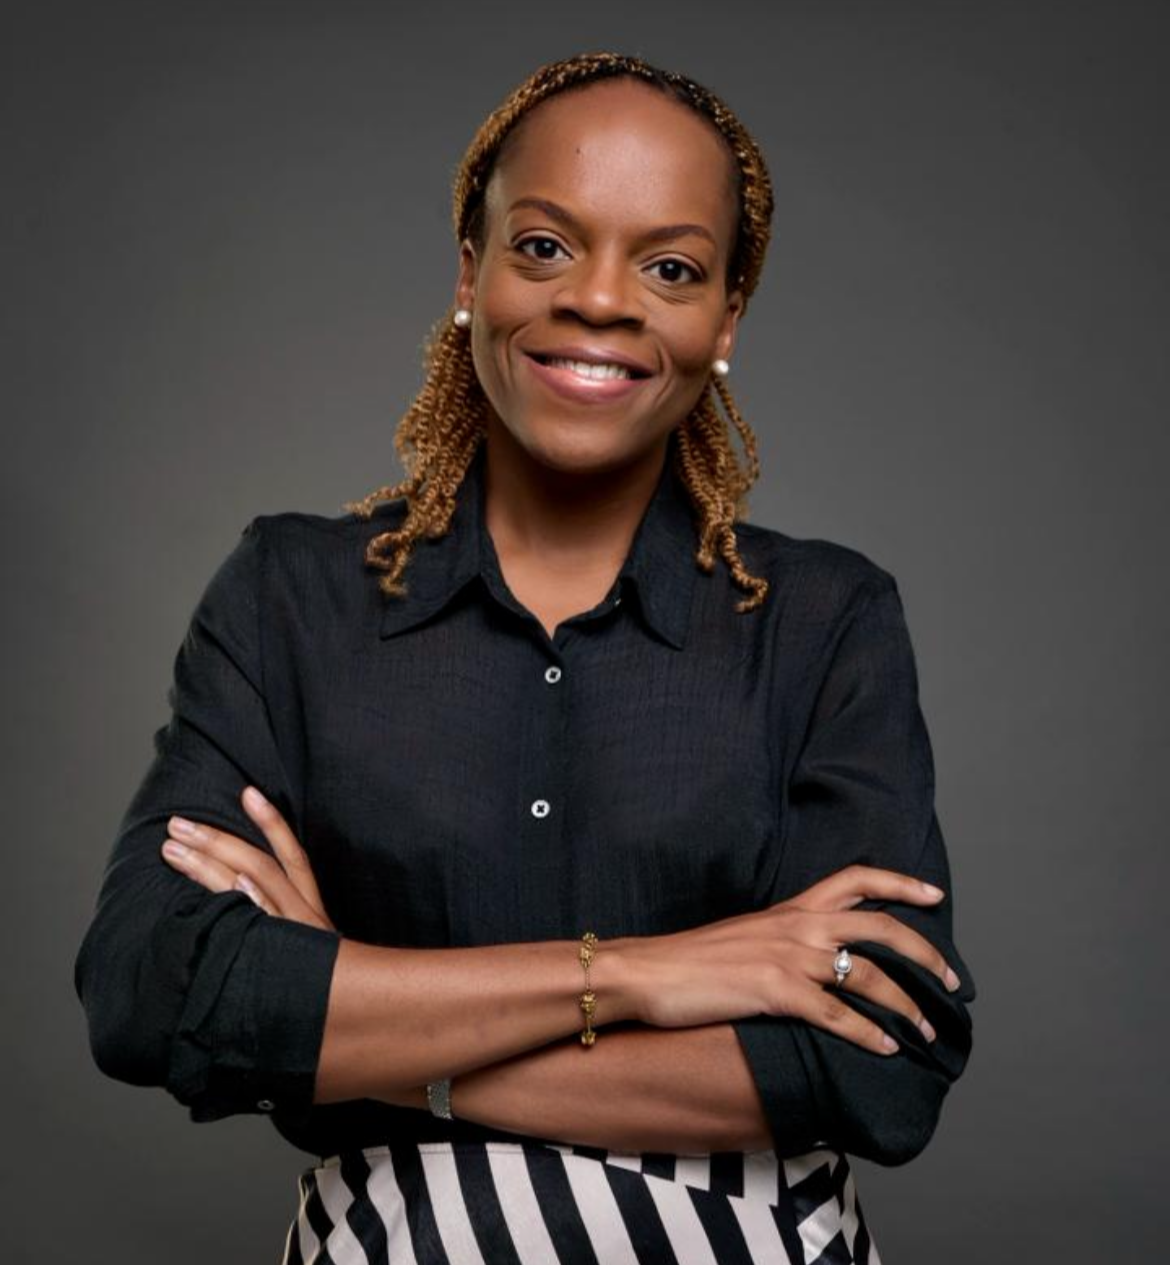
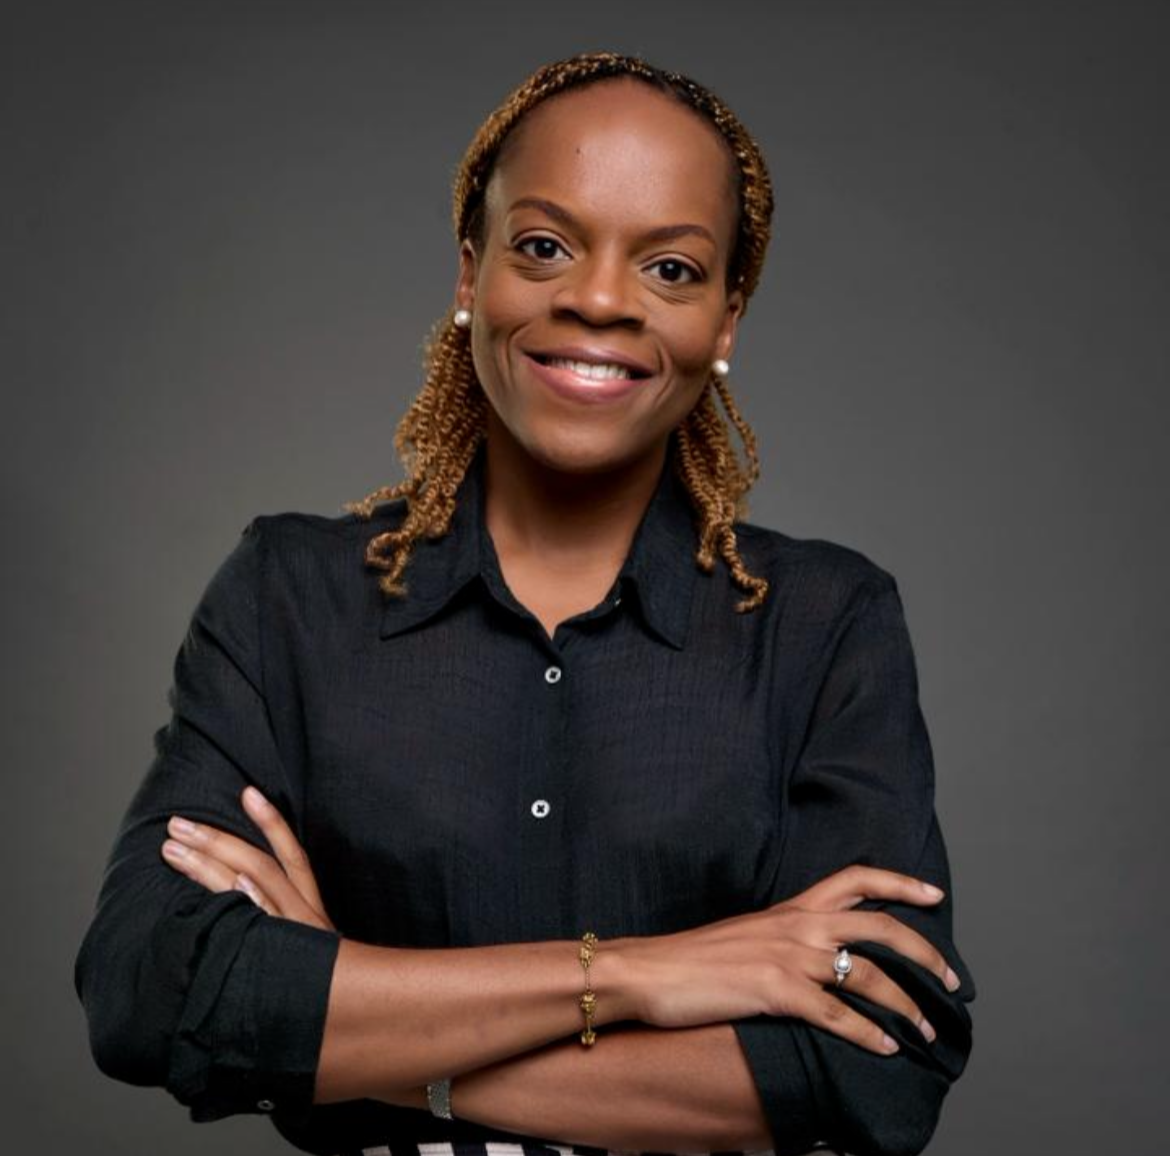
idon replacements and some more cropping

Changed region(s): [[0.0615, 0.0311, 0.8308, 1.0], [0.4615, 0.6228, 0.4923, 0.654], [0.2462, 0.5294, 0.2769, 0.5606]]

diff --git a/src/core/components/Navbar.tsx b/src/core/components/Navbar.tsx
@@ -4,7 +4,7 @@ import { useState, useEffect } from 'react';
 import { Container } from './Container';
 import { Button } from './Button';
 import Link from 'next/link';
-import Funion_logo from '@/core/assets/Funion_logo.png'
+import Funion_logo from '@/core/assets/LOGO_SVG.svg'
 
 export const Navbar = () => {
   const [isScrolled, setIsScrolled] = useState(false);